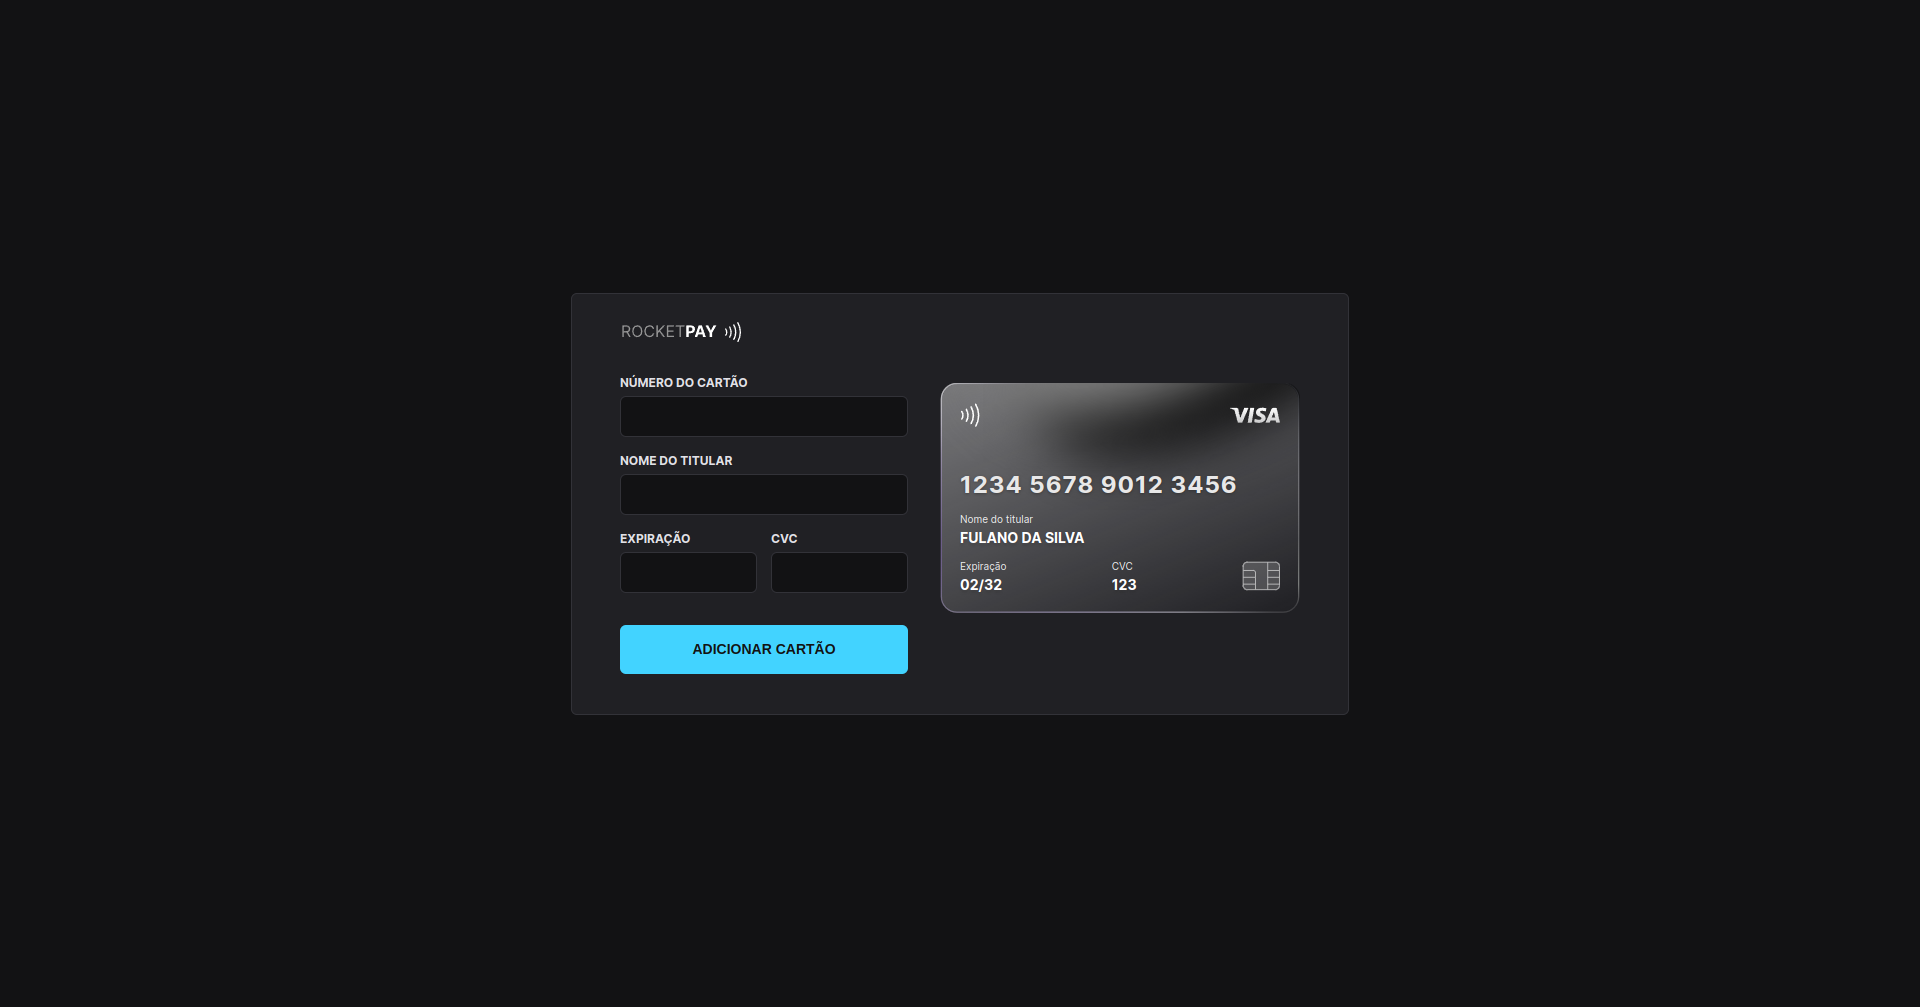
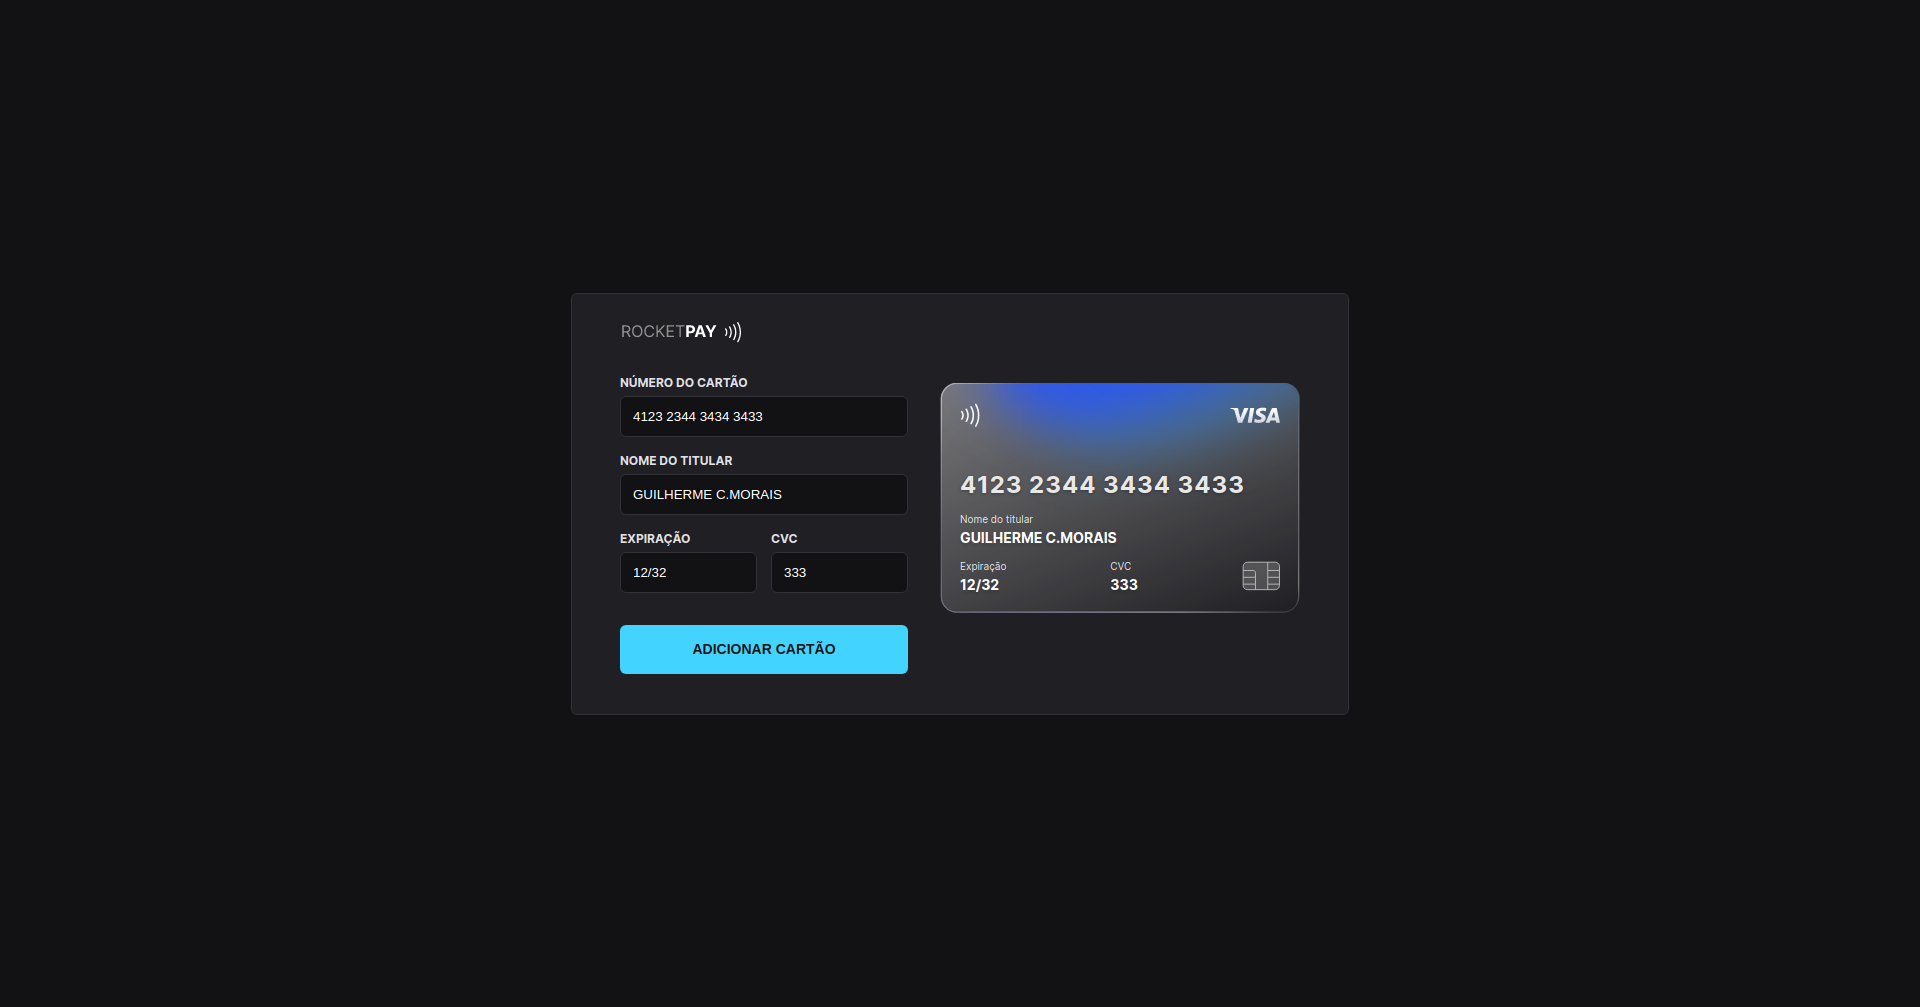
input masks add

diff --git a/src/main.js b/src/main.js
@@ -16,6 +16,7 @@ function setCard(type){
     ccBackground02.setAttribute("fill",cores[type][1]);
     ccLogo.setAttribute("src",`cc-${type}.svg`);
 }
+
 const securityCode = document.querySelector('#security-code');
 const securityCodePattern = {
     mask:"000"
@@ -53,7 +54,7 @@ const cardNumberPattern = {
             mask: "0000 0000 0000 0000",
             regex: /(^5[1-5]\d{0,2}|^22[2-9]\d{0,1}|^2[3-7]\d{0,2})\d{0,12}/,
             cardtype: "mastercard"
-        },
+        }, 
         {
             mask: "0000 0000 0000 0000",
             cardtype: "default"
@@ -71,3 +72,57 @@ const cardNumberPattern = {
 }
 
 const cardNumberMasked = IMask(cardNumber,cardNumberPattern);
+
+const addButton = document.querySelector('#add-card');
+addButton.addEventListener("click",()  =>{
+    
+});
+
+document.querySelector('form').addEventListener("submit", (event) =>{
+    event.preventDefault();
+});
+
+
+const cardHolder = document.querySelector("#card-holder");
+
+cardHolder.addEventListener("input",() => {
+    const ccHolder = document.querySelector(".cc-holder .value");
+
+    ccHolder.innerText = cardHolder.value.length === 0 ? "Digite novamente" : cardHolder.value;
+
+});
+
+//
+securityCodeMasked.on("accept", () => {
+    updateSecurityCode(securityCodeMasked.value);
+});
+
+function updateSecurityCode(code){
+    const ccSecurity = document.querySelector(".cc-security .value");
+
+    ccSecurity.innerText = code.length === 0 ? "123" : code;
+};
+
+//
+cardNumberMasked.on("accept",() =>{
+    const cardType = cardNumberMasked.masked.currentMask.cardtype;
+    setCard(cardType);
+    updateNumberCode(cardNumberMasked.value);
+});
+
+function updateNumberCode(code){
+    const ccCode = document.querySelector(".cc-info .cc-number");
+
+    ccCode.innerText = code.length === 0 ? "1234 5678 9012 3456" : code;
+};
+
+//
+expirationDateMasked.on ("accept", () =>{
+    updateExpirationData(expirationDateMasked.value);
+})
+
+function updateExpirationData(data){
+    const ccExpiration = document.querySelector(".cc-expiration .value");
+
+    ccExpiration.innerText = data.length === 0 ? "02/32" : data;
+}

diff --git a/index.html b/index.html
@@ -155,7 +155,7 @@
           </div>
         </div>
 
-        <button>ADICIONAR CARTÃO</button>
+        <button id="add-card">ADICIONAR CARTÃO</button>
       </form>
     </div>
 
